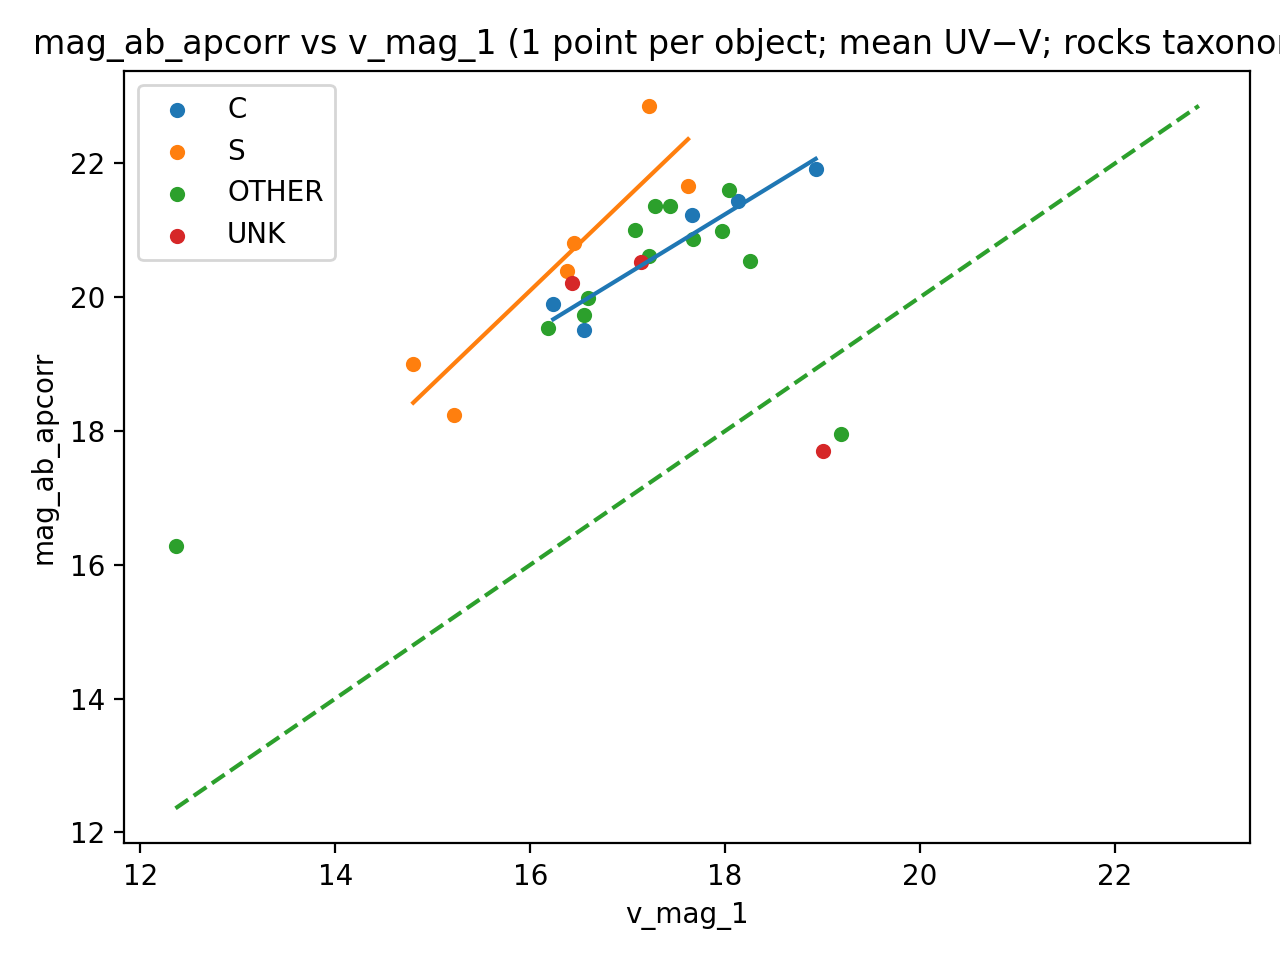
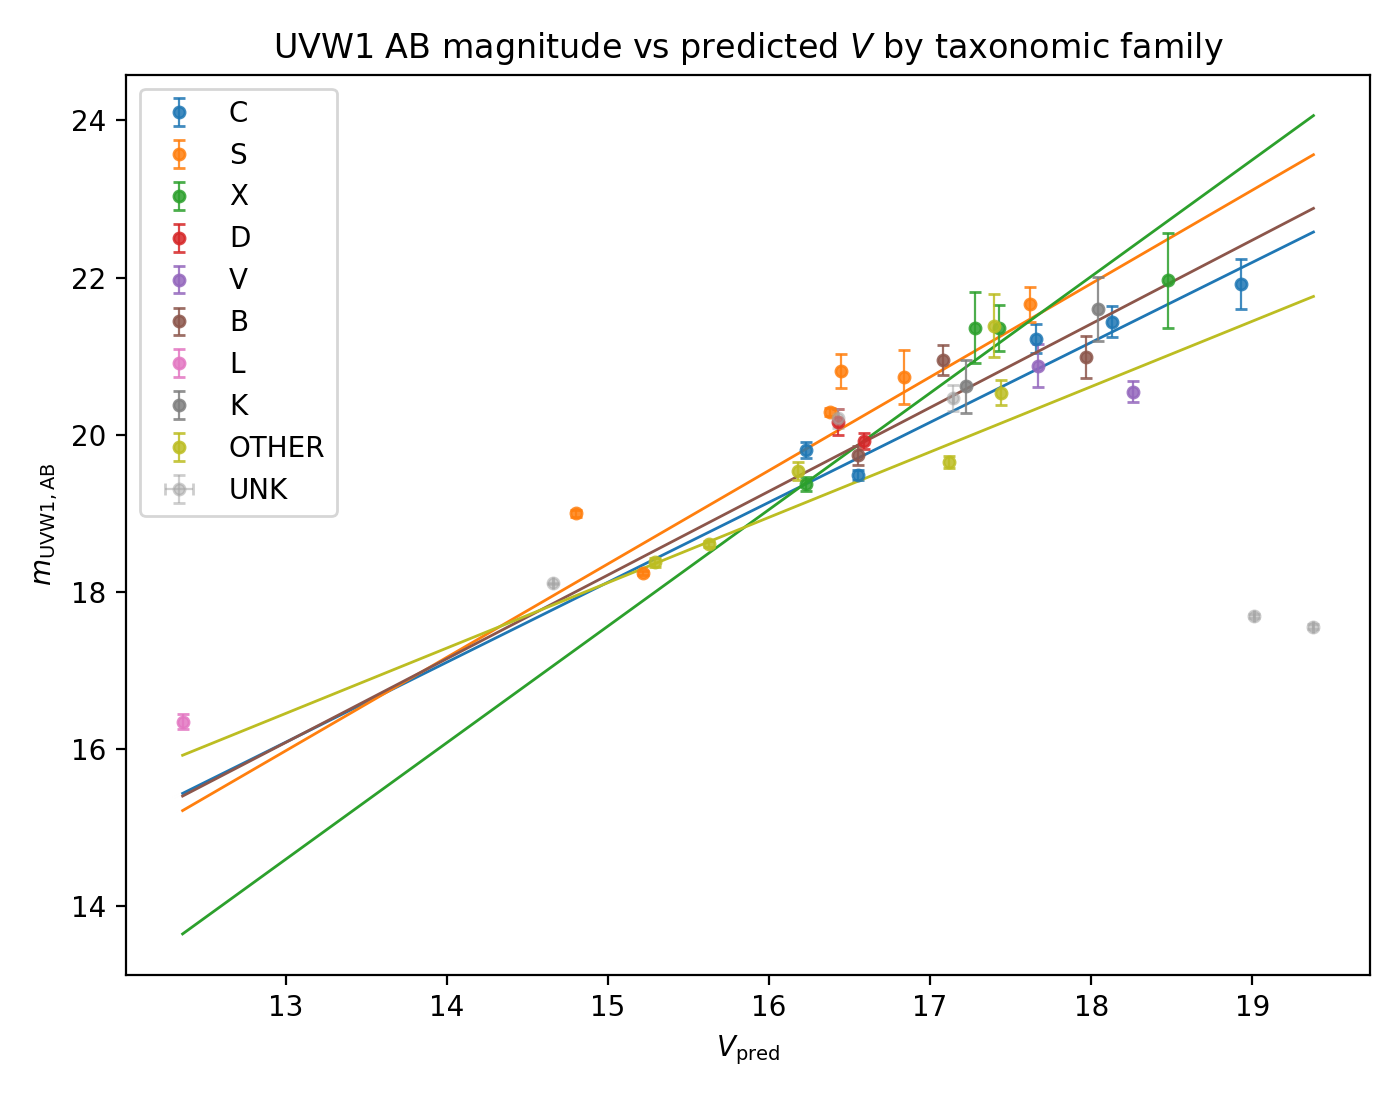
Changes implemented for c1, and m_ab without apcorr following S.Rosen approach. Commit to keep stored results up to now, they will be redone

diff --git a/results/batch_L/elena/plots/photometry_output_table.tex b/results/batch_L/elena/plots/photometry_output_table.tex
@@ -4,110 +4,9 @@
 \setlength{\tabcolsep}{3pt}
 \renewcommand{\arraystretch}{1.03}
 \begin{tabular}{lllcc}
-Asteroid & Obs. ID & Frame & $c$ (ct s$^{-1}$) & $m_{\rm AB}$ \\
+Asteroid & Obs. ID & Frame & $c$ (ct s$^{-1}$) & $m_{\rm AB}$ & $m_{\rm AB,apcorr}$ \\
 \midrule
-(234) Barbara & 0781040101 & OMS008 & $8.873 \pm 0.058$ & $16.22 \pm 0.52$ \\
-(234) Barbara & 0781040101 & OMS010 & $8.578 \pm 0.057$ & $16.346 \pm 0.096$ \\
-(523) Ada & 0803030301 & OMS007 & $0.341 \pm 0.042$ & $19.69 \pm 0.16$ \\
-(523) Ada & 0803030301 & OMS006 & $0.532 \pm 0.033$ & $19.40 \pm 0.16$ \\
-(677) Aaltje & 0302352401 & OMS404 & $0.817 \pm 0.029$ & $19.003 \pm 0.046$ \\
-(715) Transvaalia & 0821871601 & OMS006 & $1.33 \pm 0.03$ & $18.240 \pm 0.026$ \\
-(996) Hilaritas & 0821730101 & OMS006 & $0.081 \pm 0.021$ & $21.42 \pm 0.29$ \\
-(996) Hilaritas & 0821730101 & OMS403 & $0.157 \pm 0.026$ & $20.60 \pm 0.25$ \\
-(1295) Deflotte & 0744500301 & OMS401 & $0.459 \pm 0.025$ & $19.455 \pm 0.078$ \\
-(1295) Deflotte & 0744500301 & OMS007 & $0.403 \pm 0.037$ & $19.6 \pm 0.1$ \\
-(1331) Solvejg & 0611181301 & OMS006 & $0.278 \pm 0.027$ & $19.95 \pm 0.17$ \\
-(1331) Solvejg & 0611181501 & OMS007 & $0.485 \pm 0.022$ & $19.3 \pm 0.1$ \\
-(1331) Solvejg & 0611181501 & OMS006 & $0.175 \pm 0.015$ & $20.459 \pm 0.096$ \\
-(1497) Tampere & 0740920301 & OMS406 & $0.084 \pm 0.034$ & $21.36 \pm 0.46$ \\
-(1721) Wells & 0405950101 & OMS401 & $0.358 \pm 0.031$ & $19.74 \pm 0.12$ \\
-(1746) Brouwer & 0801681301 & OMS006 & $0.338 \pm 0.033$ & $19.72 \pm 0.13$ \\
-(1746) Brouwer & 0801681301 & OMS007 & $0.167 \pm 0.016$ & $20.26 \pm 0.17$ \\
-(1908) Pobeda & 0305540501 & OMS008 & $0.215 \pm 0.028$ & $20.25 \pm 0.19$ \\
-(1908) Pobeda & 0305540501 & OMS022 & $0.143 \pm 0.037$ & $20.71 \pm 0.28$ \\
-(1908) Pobeda & 0305540501 & OMS021 & $0.151 \pm 0.038$ & $20.69 \pm 0.28$ \\
-(1908) Pobeda & 0305540501 & OMS018 & $0.277 \pm 0.036$ & $20.05 \pm 0.15$ \\
-(1908) Pobeda & 0305540501 & OMS012 & $0.159 \pm 0.034$ & $20.62 \pm 0.25$ \\
-(1908) Pobeda & 0305540501 & OMS016 & $0.279 \pm 0.037$ & $20.02 \pm 0.15$ \\
-(1908) Pobeda & 0305540501 & OMS006 & $0.124 \pm 0.036$ & $20.96 \pm 0.33$ \\
-(1908) Pobeda & 0305540501 & OMS011 & $0.202 \pm 0.033$ & $20.36 \pm 0.18$ \\
-(1908) Pobeda & 0305540501 & OMS015 & $0.225 \pm 0.035$ & $20.29 \pm 0.18$ \\
-(1908) Pobeda & 0305540501 & OMS014 & $0.234 \pm 0.035$ & $20.22 \pm 0.17$ \\
-(1908) Pobeda & 0305540501 & OMS010 & $0.250 \pm 0.035$ & $20.17 \pm 0.15$ \\
-(1908) Pobeda & 0305540501 & OMS007 & $0.145 \pm 0.034$ & $20.75 \pm 0.26$ \\
-(1908) Pobeda & 0305540501 & OMS017 & $0.181 \pm 0.036$ & $20.44 \pm 0.22$ \\
-(1908) Pobeda & 0305540501 & OMS013 & $0.190 \pm 0.037$ & $20.38 \pm 0.23$ \\
-(1908) Pobeda & 0305540501 & OMS019 & $0.241 \pm 0.041$ & $20.1 \pm 0.2$ \\
-(1908) Pobeda & 0305540501 & OMS020 & $0.238 \pm 0.037$ & $20.19 \pm 0.19$ \\
-(1908) Pobeda & 0305540501 & OMS023 & $0.202 \pm 0.038$ & $20.34 \pm 0.21$ \\
-(2381) Landi & 0700182001 & OMS008 & $0.020 \pm 0.014$ & $22.86 \pm 0.78$ \\
-(2802) Weisell & 0691070301 & OMS401 & $0.136 \pm 0.026$ & $20.81 \pm 0.22$ \\
-(3021) Lucubratio & 0110980101 & OMS406 & $0.191 \pm 0.034$ & $20.4 \pm 0.2$ \\
-(3021) Lucubratio & 0110980101 & OMS411 & $0.170 \pm 0.038$ & $20.66 \pm 0.32$ \\
-(3529) Dowling & 0673002335 & OMS409 & $1.87 \pm 0.04$ & $17.962 \pm 0.055$ \\
-(4717) Kaneko & 0160961001 & OMS004 & $0.154 \pm 0.035$ & $20.62 \pm 0.34$ \\
-(4805) Asteropaios & 0803161101 & OMS411 & $0.07 \pm 0.02$ & $21.60 \pm 0.41$ \\
-(5122) Mucha & 0300240101 & OMS008 & $0.05 \pm 0.01$ & $21.66 \pm 0.22$ \\
-(5408) The & 0501270301 & OMS007 &  &  \\
-(6065) Chesneau & 0302580701 & OMS405 & $0.213 \pm 0.024$ & $20.21 \pm 0.12$ \\
-(6065) Chesneau & 0302580701 & OMS007 &  &  \\
-(6679) Gurzhij & 0744490401 & OMS434 & $0.16 \pm 0.02$ & $20.55 \pm 0.13$ \\
-(6723) Chrisclark & 0670120401 & OMS413 & $0.076 \pm 0.014$ & $21.4 \pm 0.2$ \\
-(7966) Richardbaum & 0201902401 & OMS404 & $0.129 \pm 0.029$ & $20.88 \pm 0.27$ \\
-(8415) 1996 UT & 0412592501 & OMS006 & $0.109 \pm 0.022$ & $20.99 \pm 0.27$ \\
-(8573) Ivanka & 0692330401 & OMS007 & $0.085 \pm 0.013$ & $21.22 \pm 0.19$ \\
-(11263) Pesonen & 0148880101 & OMS408 & $0.053 \pm 0.014$ & $21.92 \pm 0.32$ \\
-(11537) Guericke & 0691840101 & OMS413 & $2.326 \pm 0.033$ & $17.685 \pm 0.029$ \\
-(11537) Guericke & 0691840101 & OMS414 & $2.273 \pm 0.031$ & $17.725 \pm 0.046$ \\
-(12352) Jepejacobsen & 0784401201 & OMS006 & $0.077 \pm 0.021$ & $21.36 \pm 0.29$ \\
-(13859) Fredtreasure & 0303561001 & OMS007 & $0.205 \pm 0.031$ & $20.17 \pm 0.17$ \\
-(25000) Astrometria & 0793581001 & OMS006 & $0.038 \pm 0.021$ & $22.0 \pm 0.6$ \\
-(49222) 1998 SM135 & 0802200801 & OMS403 & $2.204 \pm 0.058$ & $17.63 \pm 0.12$ \\
-(134340) Pluto & 0793183801 & OMS071 & $1.438 \pm 0.048$ & $18.024 \pm 0.063$ \\
-(134340) Pluto & 0793183801 & OMS066 & $1.293 \pm 0.046$ & $18.113 \pm 0.062$ \\
-(134340) Pluto & 0793183801 & OMS062 & $1.288 \pm 0.046$ & $18.102 \pm 0.056$ \\
-(134340) Pluto & 0793183801 & OMS075 & $1.282 \pm 0.048$ & $18.40 \pm 0.22$ \\
-(134340) Pluto & 0793183801 & OMS081 & $1.426 \pm 0.049$ & $18.104 \pm 0.092$ \\
-(134340) Pluto & 0793183801 & OMS065 & $1.318 \pm 0.046$ & $18.146 \pm 0.086$ \\
-(134340) Pluto & 0793183801 & OMS072 & $1.235 \pm 0.047$ & $18.126 \pm 0.056$ \\
-(134340) Pluto & 0793183801 & OMS076 & $1.362 \pm 0.048$ & $18.068 \pm 0.066$ \\
-(134340) Pluto & 0793183801 & OMS061 & $1.255 \pm 0.045$ & $18.14 \pm 0.11$ \\
-(134340) Pluto & 0793183801 & OMS058 & $1.265 \pm 0.047$ & $18.3 \pm 0.2$ \\
-(134340) Pluto & 0793183801 & OMS078 & $1.311 \pm 0.046$ & $18.103 \pm 0.042$ \\
-(134340) Pluto & 0793183801 & OMS056 & $1.290 \pm 0.044$ & $18.092 \pm 0.046$ \\
-(134340) Pluto & 0793183801 & OMS068 & $1.299 \pm 0.046$ & $18.122 \pm 0.039$ \\
-(134340) Pluto & 0793183801 & OMS055 & $1.346 \pm 0.046$ & $18.2 \pm 0.2$ \\
-(134340) Pluto & 0793183801 & OMS054 & $1.347 \pm 0.044$ & $18.04 \pm 0.14$ \\
-(134340) Pluto & 0793183801 & OMS069 & $1.386 \pm 0.048$ & $18.052 \pm 0.038$ \\
-(134340) Pluto & 0793183801 & OMS057 & $1.358 \pm 0.048$ & $18.074 \pm 0.039$ \\
-(134340) Pluto & 0793183801 & OMS079 & $1.289 \pm 0.049$ & $18.130 \pm 0.041$ \\
-(134340) Pluto & 0793183801 & OMS059 & $1.369 \pm 0.048$ & $18.067 \pm 0.055$ \\
-(134340) Pluto & 0793183801 & OMS060 & $1.433 \pm 0.047$ & $18.015 \pm 0.036$ \\
-(134340) Pluto & 0793183801 & OMS077 & $1.266 \pm 0.051$ & $18.151 \pm 0.043$ \\
-(134340) Pluto & 0793183801 & OMS073 & $1.309 \pm 0.048$ & $18.114 \pm 0.039$ \\
-(134340) Pluto & 0793183801 & OMS064 & $1.320 \pm 0.048$ & $18.11 \pm 0.04$ \\
-(134340) Pluto & 0793183801 & OMS074 & $1.258 \pm 0.049$ & $18.157 \pm 0.042$ \\
-(134340) Pluto & 0793183801 & OMS063 & $1.333 \pm 0.045$ & $18.220 \pm 0.065$ \\
-(134340) Pluto & 0793183801 & OMS067 & $1.203 \pm 0.046$ & $18.206 \pm 0.042$ \\
-(134340) Pluto & 0793183801 & OMS070 & $1.328 \pm 0.047$ & $18.098 \pm 0.039$ \\
-(134340) Pluto & 0793183801 & OMS080 & $1.292 \pm 0.047$ & $18.128 \pm 0.039$ \\
-(1345) Potomac & 0674480401 & OMS407 & $0.412 \pm 0.035$ & $19.370 \pm 0.092$ \\
-(2223) Sarpedon & 0800400501 & OMS408 & $0.316 \pm 0.022$ & $19.656 \pm 0.075$ \\
-(687) Tinette & 0400890201 & OMS409 & $0.121 \pm 0.029$ & $20.70 \pm 0.26$ \\
-(687) Tinette & 0400890201 & OMS412 & $0.154 \pm 0.029$ & $20.43 \pm 0.21$ \\
-(892) Seeligeria & 0303670101 & OMS413 & $0.833 \pm 0.029$ & $18.605 \pm 0.038$ \\
-(892) Seeligeria & 0303670101 & OMS009 &  &  \\
-(1107) Lictoria & 0012440101 & OMS410 & $1.029 \pm 0.053$ & $18.375 \pm 0.055$ \\
-(1225) Ariane & 0675470501 & OMS401 & $0.117 \pm 0.037$ & $20.73 \pm 0.35$ \\
-(1225) Ariane & 0675470501 & OMS402 &  &  \\
-(1623) Vivian & 0693990301 & OMS011 &  &  \\
-(1623) Vivian & 0693990301 & OMS015 & $0.064 \pm 0.024$ & $21.4 \pm 0.4$ \\
-(2118) Flagstaff & 0804250301 & OMS008 &  &  \\
-(2928) Epstein & 0205330501 & OMS401 &  &  \\
-(6550) Parler & 0747400143 & OMS412 &  &  \\
-(8415) 1996 UT & 0412592401 & OMS010 &  &  \\
-(14059) 1996 BB2 & 0694640901 & OMS404 &  &  \\
-(4992) Kalman & 0725290145 & OMS416 &  &  \\
+(234) Barbara & 0781040101 & OMS008 & $8.731 \pm 0.056$ & $15.8714 \pm 0.0072$ & $15.966 \pm 0.051$ \\
 \bottomrule
 \end{tabular}
 \caption{Photometry output exported from the pipeline.}

diff --git a/results/batch_L/elena/plots/taxonomy_colour_summary.tex b/results/batch_L/elena/plots/taxonomy_colour_summary.tex
@@ -1,0 +1,17 @@
+\begin{table}[t]
+\centering
+\scriptsize
+\caption{Mean UVW1--$V$ colour by taxonomic family.}
+\label{tab:taxonomy_colour_summary}
+\begin{tabular}{lrrrr}
+\hline
+Family & $N$ & $\langle V \rangle$ & $\langle m_{\rm UVW1} \rangle$ & $\langle {\rm UVW1}-V \rangle$ \\
+\hline
+L & 1 & 12.442 & 15.871 & 3.429 $\pm$ 0.007 \\
+\hline
+\end{tabular}
+
+\vspace{0.5ex}
+\footnotesize
+The colour uncertainty corresponds to the uncertainty of the weighted mean using the UVW1 photometric errors. The intrinsic object-to-object scatter is reported in the accompanying CSV file.
+\end{table}
